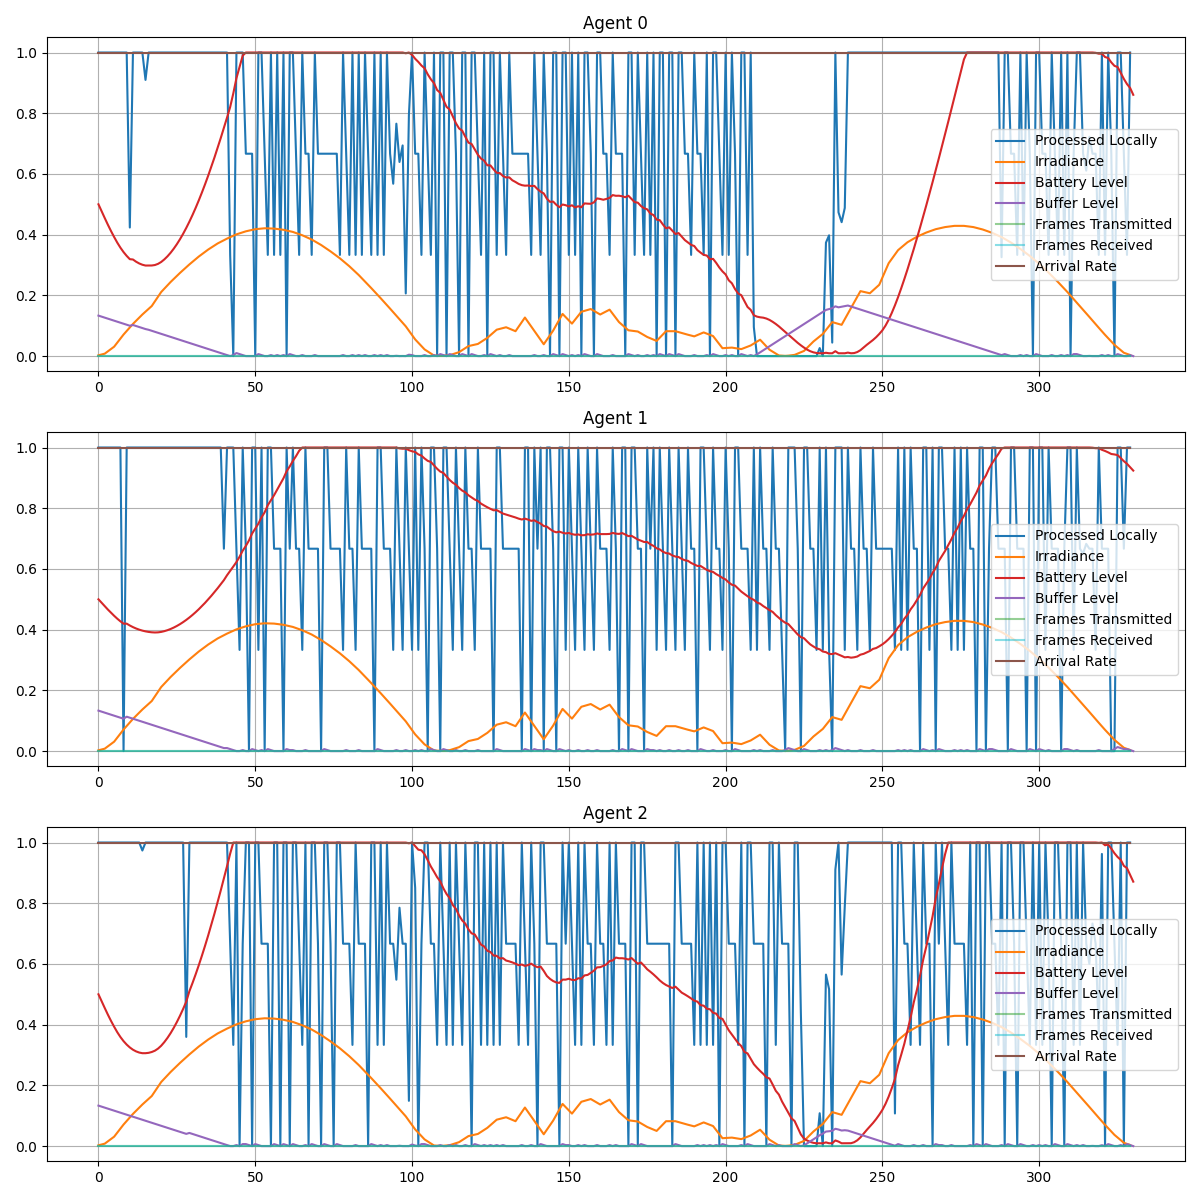
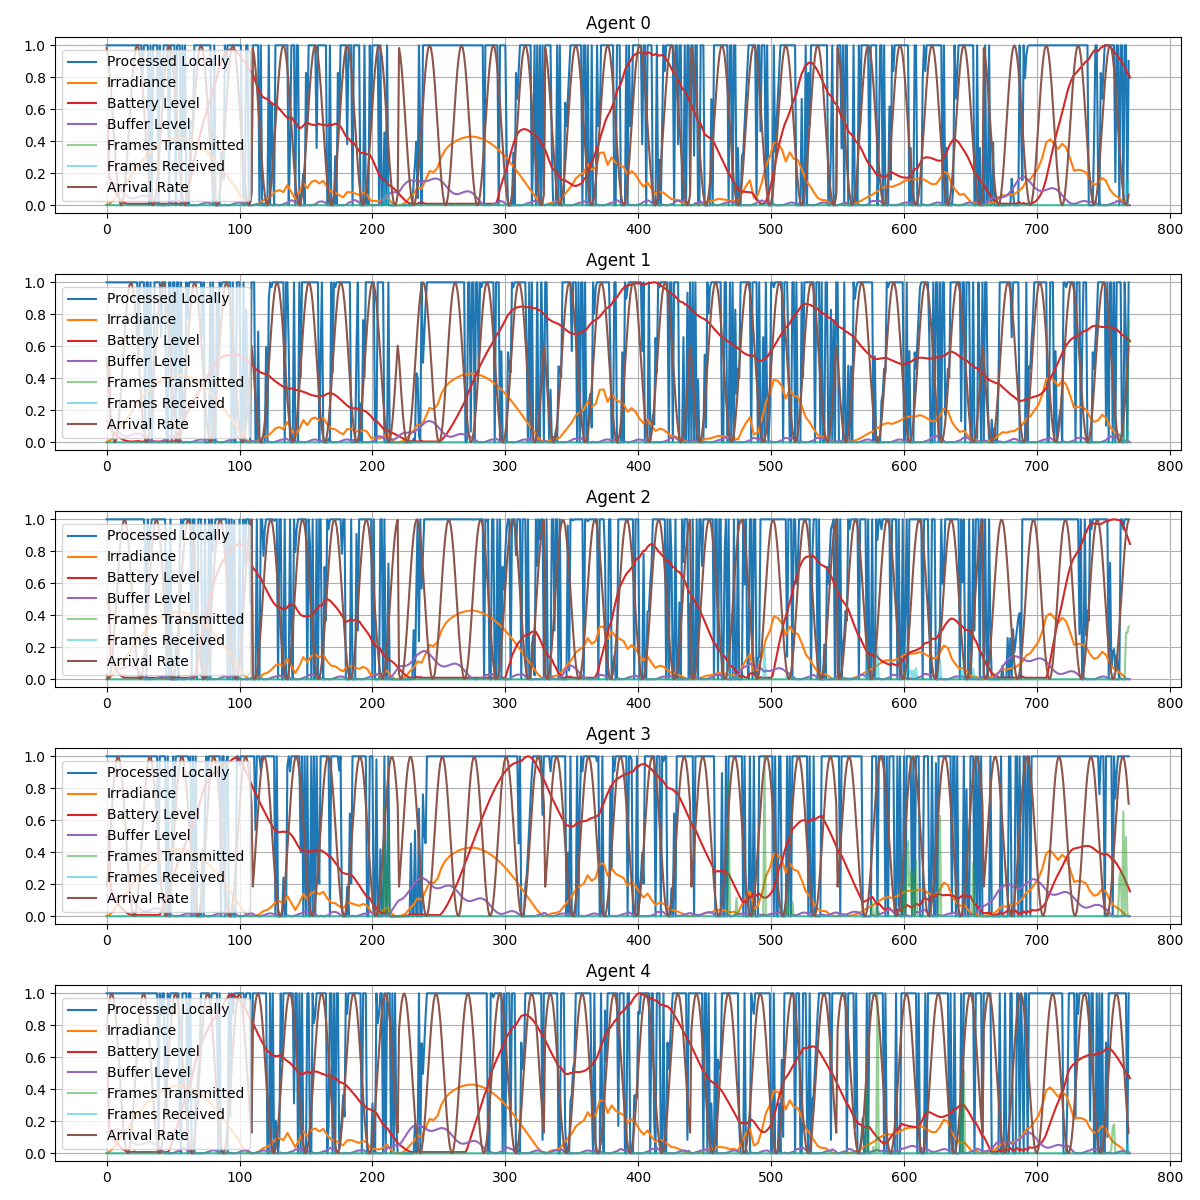
pre-submited work

diff --git a/scripts/multi-agent/custom-environment/mas_env/ilp/main.py b/scripts/multi-agent/custom-environment/mas_env/ilp/main.py
@@ -24,7 +24,7 @@ eps_fin = 0.05
 # eps_dec = 0.999
 eps_dec = 0.9985
 
-num_agents = 3
+num_agents = 5
 batt_moliplicator_factor = 0.5
 battery_capacities = [50, 100, 50, 60, 65, 80, 50, 55, 90, 70]
 battery_capacities = [b * batt_moliplicator_factor for b in battery_capacities]
